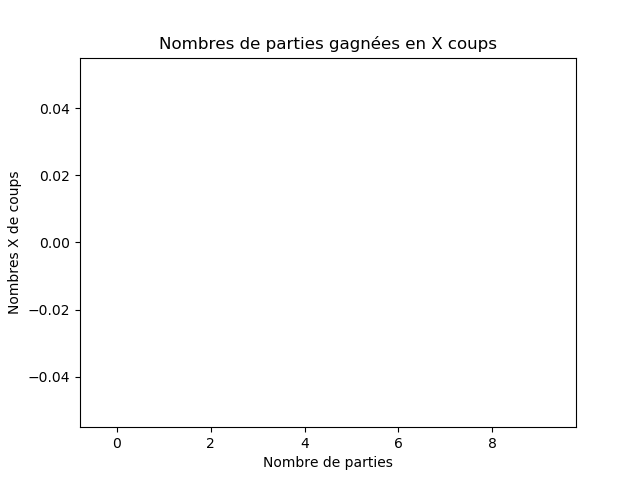
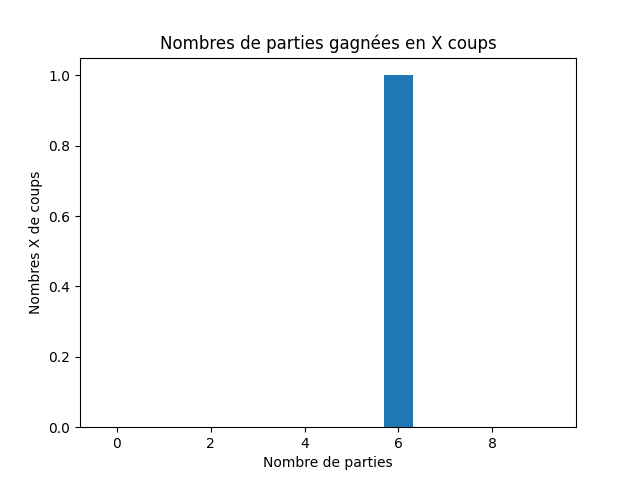
modif fct stat(selection des donnes direct dans BDD)

diff --git a/web/fonctions_stat.py b/web/fonctions_stat.py
@@ -16,8 +16,9 @@ def recup_data(user):
     data=[]
     con=sqlite3.connect('wordle.sql')
     cur = con.cursor()
-    for i in cur.execute("SELECT * FROM Utilisateur"):
-        data.append(i)
+    data = cur.execute("SELECT * FROM Utilisateur WHERE Nom_utilisateur = (?)", ([user]))
+    data = list(data.fetchall()[0])
+    print(data)
     con.commit()
     con.close()
     return(data)
@@ -26,13 +27,13 @@ def trace_histo(user):              #ET CALCULE MOYENNE
     histo=[]
     con=sqlite3.connect('wordle.sql')
     cur = con.cursor()
-    for i in cur.execute("SELECT * FROM Historique"):
+    for i in cur.execute("SELECT * FROM Historique WHERE Identifiant = (?)", ([user])):
         histo.append(i)
     con.commit()
     con.close()
     x=[]
     for u in histo:
-        if u[1]==user and u[3]!=0:
+        if  u[3]!=0:
             x.append(u[3])
     
     moyenne=0
@@ -57,17 +58,14 @@ def trace_histo(user):              #ET CALCULE MOYENNE
     return(moyenne,meilleur)
 
 def selection_joueur(user,data):
-    for u in data:
-        if u[1]==user:
-            info=u
-    nb_vict=info[4]
-    nb_parties=info[4]+info[5]
+    nb_vict=data[4]
+    nb_parties=data[4]+data[5]
     if nb_vict==0 or nb_parties==0:
         taux_vict ='0%'
     else:
         taux_vict=str((nb_vict/nb_parties)*100)
         taux_vict=taux_vict[:4]+"%"
-    xp=info[6]
+    xp=data[6]
     return(nb_vict,nb_parties,xp,taux_vict)
 
 #--------------------------------------------------PARTIE MDJ 1 ------------------------------------------------
